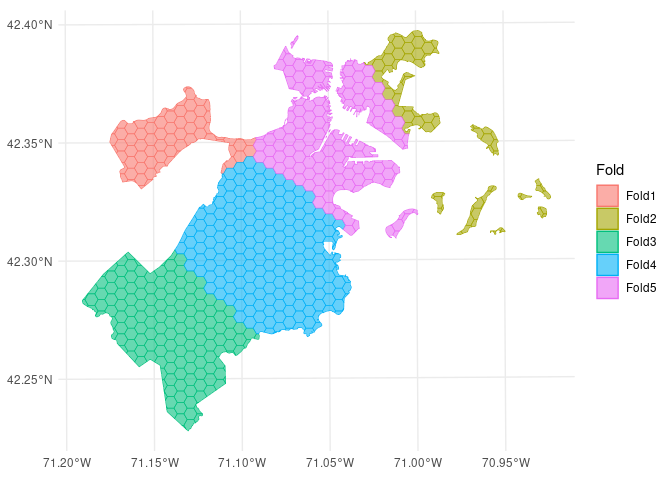
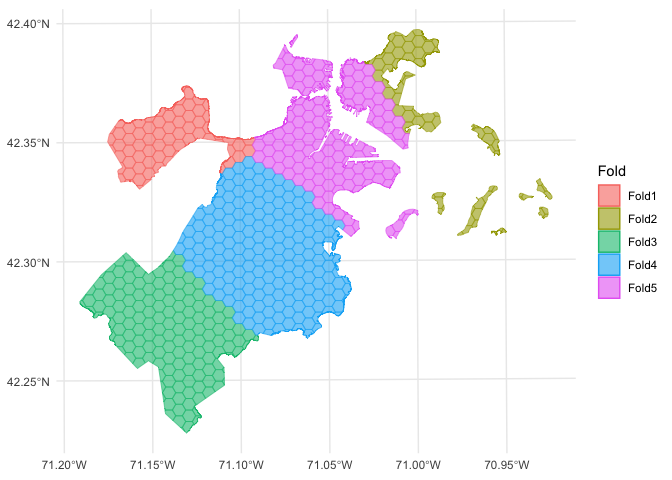
Prep release

diff --git a/revdep/README.md b/revdep/README.md
@@ -1,87 +1,23 @@
 # Platform
 
-|field    |value                                                                        |
-|:--------|:----------------------------------------------------------------------------|
-|version  |R version 4.3.1 (2023-06-16)                                                 |
-|os       |Ubuntu 22.04.3 LTS                                                           |
-|system   |x86_64, linux-gnu                                                            |
-|ui       |RStudio                                                                      |
-|language |(EN)                                                                         |
-|collate  |en_US.UTF-8                                                                  |
-|ctype    |en_US.UTF-8                                                                  |
-|tz       |America/New_York                                                             |
-|date     |2023-11-03                                                                   |
-|rstudio  |2023.09.1+494 Desert Sunflower (desktop)                                     |
-|pandoc   |3.1.1 @ /usr/lib/rstudio/resources/app/bin/quarto/bin/tools/ (via rmarkdown) |
+|field    |value                                      |
+|:--------|:------------------------------------------|
+|version  |R version 4.4.1 (2024-06-14)               |
+|os       |macOS Sonoma 14.6.1                        |
+|system   |aarch64, darwin20                          |
+|ui       |X11                                        |
+|language |(EN)                                       |
+|collate  |en_US.UTF-8                                |
+|ctype    |en_US.UTF-8                                |
+|tz       |America/New_York                           |
+|date     |2024-10-02                                 |
+|pandoc   |3.2.1 @ /opt/homebrew/bin/ (via rmarkdown) |
 
 # Dependencies
 
-|package       |old     |new        |Δ  |
-|:-------------|:-------|:----------|:--|
-|spatialsample |0.4.0   |0.4.0.9000 |*  |
-|class         |7.3-22  |7.3-22     |   |
-|classInt      |0.4-10  |0.4-10     |   |
-|cli           |3.6.1   |3.6.1      |   |
-|codetools     |0.2-19  |0.2-19     |   |
-|colorspace    |2.1-0   |2.1-0      |   |
-|cpp11         |0.4.6   |0.4.6      |   |
-|DBI           |1.1.3   |1.1.3      |   |
-|digest        |0.6.33  |0.6.33     |   |
-|dplyr         |1.1.3   |1.1.3      |   |
-|e1071         |1.7-13  |1.7-13     |   |
-|fansi         |1.0.5   |1.0.5      |   |
-|farver        |2.1.1   |2.1.1      |   |
-|furrr         |0.3.1   |0.3.1      |   |
-|future        |1.33.0  |1.33.0     |   |
-|generics      |0.1.3   |0.1.3      |   |
-|ggplot2       |3.4.4   |3.4.4      |   |
-|globals       |0.16.2  |0.16.2     |   |
-|glue          |1.6.2   |1.6.2      |   |
-|gtable        |0.3.4   |0.3.4      |   |
-|isoband       |0.2.7   |0.2.7      |   |
-|KernSmooth    |2.23-22 |2.23-22    |   |
-|labeling      |0.4.3   |0.4.3      |   |
-|lattice       |0.22-5  |0.22-5     |   |
-|lifecycle     |1.0.3   |1.0.3      |   |
-|listenv       |0.9.0   |0.9.0      |   |
-|magrittr      |2.0.3   |2.0.3      |   |
-|MASS          |7.3-60  |7.3-60     |   |
-|Matrix        |1.6-1.1 |1.6-1.1    |   |
-|mgcv          |1.9-0   |1.9-0      |   |
-|munsell       |0.5.0   |0.5.0      |   |
-|nlme          |3.1-163 |3.1-163    |   |
-|parallelly    |1.36.0  |1.36.0     |   |
-|pillar        |1.9.0   |1.9.0      |   |
-|pkgconfig     |2.0.3   |2.0.3      |   |
-|proxy         |0.4-27  |0.4-27     |   |
-|purrr         |1.0.2   |1.0.2      |   |
-|R6            |2.5.1   |2.5.1      |   |
-|RColorBrewer  |1.1-3   |1.1-3      |   |
-|Rcpp          |1.0.11  |1.0.11     |   |
-|rlang         |1.1.1   |1.1.1      |   |
-|rsample       |1.2.0   |1.2.0      |   |
-|s2            |1.1.4   |1.1.4      |   |
-|scales        |1.2.1   |1.2.1      |   |
-|sf            |1.0-14  |1.0-14     |   |
-|slider        |0.3.1   |0.3.1      |   |
-|stringi       |1.7.12  |1.7.12     |   |
-|stringr       |1.5.0   |1.5.0      |   |
-|tibble        |3.2.1   |3.2.1      |   |
-|tidyr         |1.3.0   |1.3.0      |   |
-|tidyselect    |1.2.0   |1.2.0      |   |
-|units         |0.8-4   |0.8-4      |   |
-|utf8          |1.2.4   |1.2.4      |   |
-|vctrs         |0.6.4   |0.6.4      |   |
-|viridisLite   |0.4.2   |0.4.2      |   |
-|warp          |0.2.1   |0.2.1      |   |
-|withr         |2.5.2   |2.5.2      |   |
-|wk            |0.9.0   |0.9.0      |   |
+|package       |old   |new        |Δ  |
+|:-------------|:-----|:----------|:--|
+|spatialsample |0.5.1 |0.5.1.9000 |*  |
 
 # Revdeps
-
-## Failed to check (1)
-
-|package  |version |error |warning |note |
-|:--------|:-------|:-----|:-------|:----|
-|waywiser |?       |      |        |     |
 

diff --git a/cran-comments.md b/cran-comments.md
@@ -1,26 +1,16 @@
 ## Release Summary
 
-This is the 7th CRAN release of spatialsample. This release fixes a bug in the 
-recent release (0.5.0), where objects created by `spatial_block_cv()` were not
-being correctly plotted by `autoplot()` or regenerated by `reshuffle_rset()`.
+This is the 8th CRAN release of spatialsample. This release fixes a bug in 
+how `spatial_nndm_cv()` samples within a single polygon.
 
 ## R CMD check results
 
-0 errors | 0 warnings | 1 notes
-
-❯ checking CRAN incoming feasibility
-   [5s/32s] NOTE
-  Maintainer: ‘Michael Mahoney <mike.mahoney.218@gmail.com>’
-  
-  Days since last update: 4
-
-This is a fast patch release intended to fix a bug in the previous release.
-Apologies for the short interval between releases; I'm hoping (and confident) 
-that this should be the last CRAN submission for a while.
+0 errors | 0 warnings | 0 notes
 
 ## revdepcheck results
 
-We checked 1 reverse dependencies (0 from CRAN + 1 from Bioconductor), comparing R CMD check results across CRAN and dev versions of this package.
+We checked 2 reverse dependencies, comparing R CMD check results across CRAN and dev versions of this package.
 
  * We saw 0 new problems
  * We failed to check 0 packages
+

diff --git a/README.md b/README.md
@@ -111,7 +111,7 @@ By contributing to this project, you agree to abide by its terms.
 
 - For questions and discussions about tidymodels packages, modeling, and
   machine learning, please [post on RStudio
-  Community](https://community.rstudio.com/new-topic?category_id=15&tags=tidymodels,question).
+  Community](https://forum.posit.co/new-topic?category_id=15&tags=tidymodels,question).
 
 - If you think you have encountered a bug, please [submit an
   issue](https://github.com/tidymodels/rules/issues).

diff --git a/revdep/cran.md b/revdep/cran.md
@@ -1,6 +1,6 @@
 ## revdepcheck results
 
-We checked 1 reverse dependencies (0 from CRAN + 1 from Bioconductor), comparing R CMD check results across CRAN and dev versions of this package.
+We checked 2 reverse dependencies, comparing R CMD check results across CRAN and dev versions of this package.
 
  * We saw 0 new problems
  * We failed to check 0 packages

diff --git a/revdep/failures.md b/revdep/failures.md
@@ -1,33 +1,1 @@
-# waywiser
-
-<details>
-
-* Version: 
-* GitHub: https://github.com/tidymodels/spatialsample
-* Source code: NA
-* Number of recursive dependencies: 0
-
-</details>
-
-## Error before installation
-
-### Devel
-
-```
-
-
-
-
-
-
-```
-### CRAN
-
-```
-
-
-
-
-
-
-```
+*Wow, no problems at all. :)*
